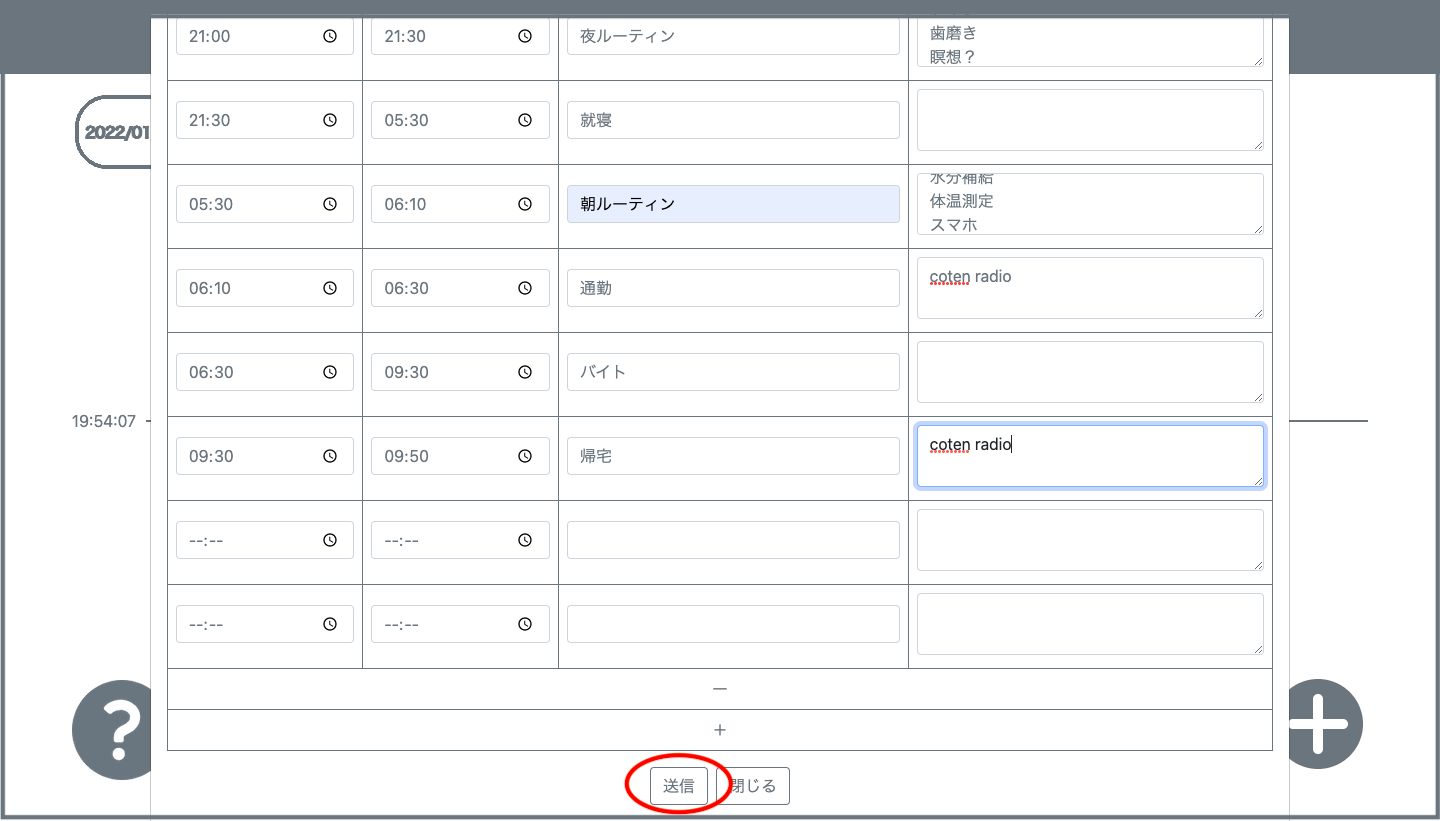
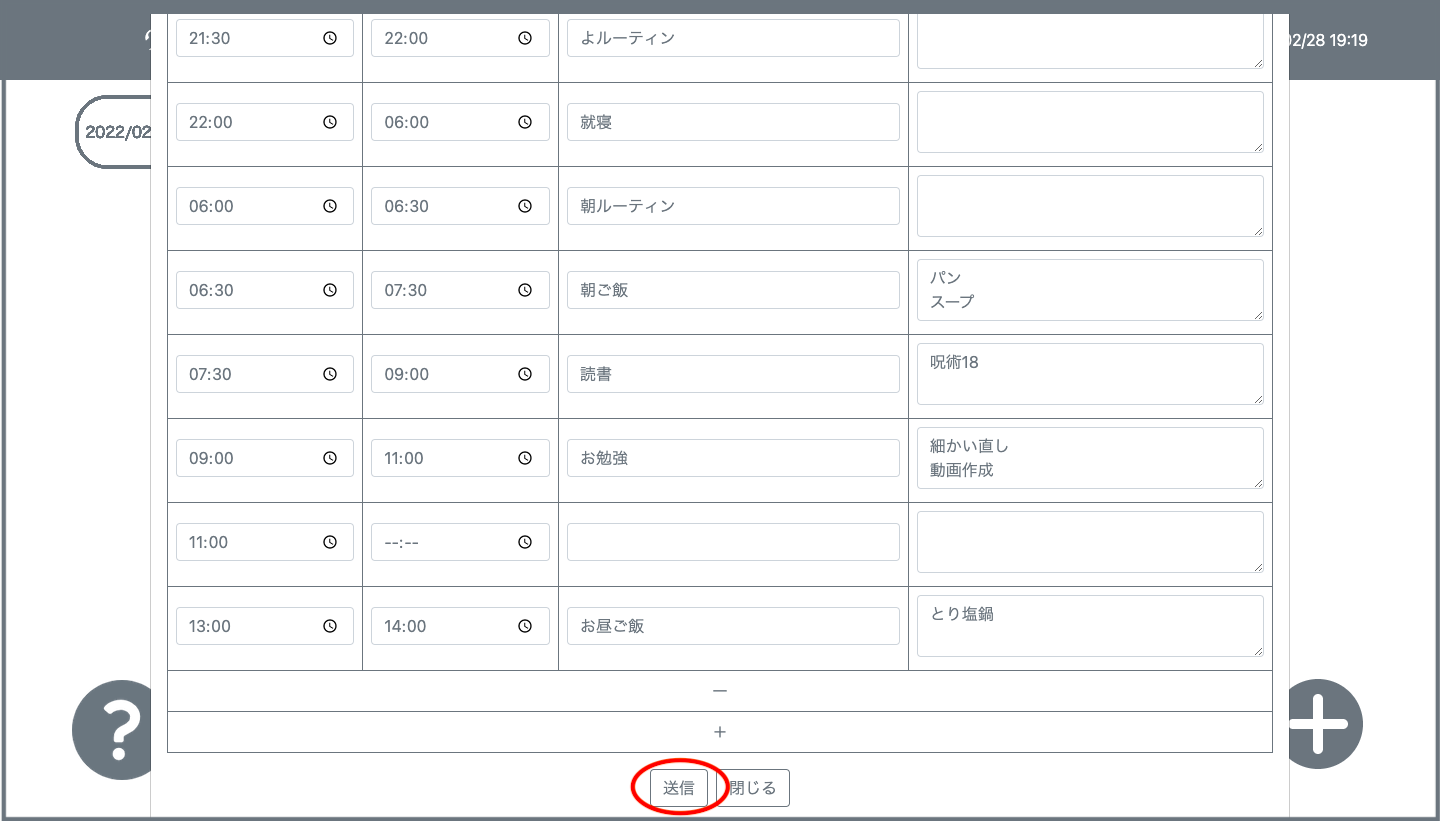
完成かな。”

diff --git a/app/javascript/packs/users/show.js b/app/javascript/packs/users/show.js
@@ -220,8 +220,17 @@ function set_task(){
       var cname = cname_array[1].substr(5)
       var range = cname_array[2].substr(6)
       var div_height = $(":root").css("--time-div-height").slice(0, -2)
-      if(range <= 15){
-        var changedivheight = div_height * 15
+      if($(".task-form").length && range <= 40){
+        var changedivheight = div_height * 20
+        range = changedivheight + (range - 1) * div_height
+        boolean = cname.endsWith("00");
+        if(boolean){
+          var changediv = $("."+cname).next().attr("class").split(" ")[0];
+          $("."+changediv).css("height", changedivheight)
+        }else{
+          $("."+cname).css("height", changedivheight)
+        }
+      }else if(range <= 15){
         range = changedivheight + (range - 1) * div_height
         boolean = cname.endsWith("00");
         if(boolean){

diff --git a/app/assets/stylesheets/custom.scss b/app/assets/stylesheets/custom.scss
@@ -12,7 +12,7 @@
 .nav-item {
   .nav-link {
     color: white;
-    &:hover {
+    &:hover, &:focus {
       color: white;
       opacity: 0.5;
     }

diff --git a/app/controllers/application_controller.rb b/app/controllers/application_controller.rb
@@ -31,6 +31,10 @@ class ApplicationController < ActionController::Base
     login(user)
     remember(user)
     now = DateTime.now
+    limit = user.tasks.order(:start_datetime).pluck(:start_datetime).last
+    if limit && limit.tomorrow > now
+      now = limit
+    end
     session[:default_time] = {year: now.year, month: now.month, day: now.day, hour: now.hour}
     flash[:_] = text
     redirect_to user_url(user, session[:default_time])

diff --git a/app/controllers/sessions_controller.rb b/app/controllers/sessions_controller.rb
@@ -24,7 +24,7 @@ class SessionsController < ApplicationController
       # params[:session][:remember_me] == "1" ? remember(user) : forget(user)
       redirect_user(user, "おかえりなさいませ♪")
     else
-      flash[:_] = "もう一度お願いします。"
+      flash.now[:_] = "もう一度お願いします。"
       redirect_to root_url(email: email)
     end
   end
